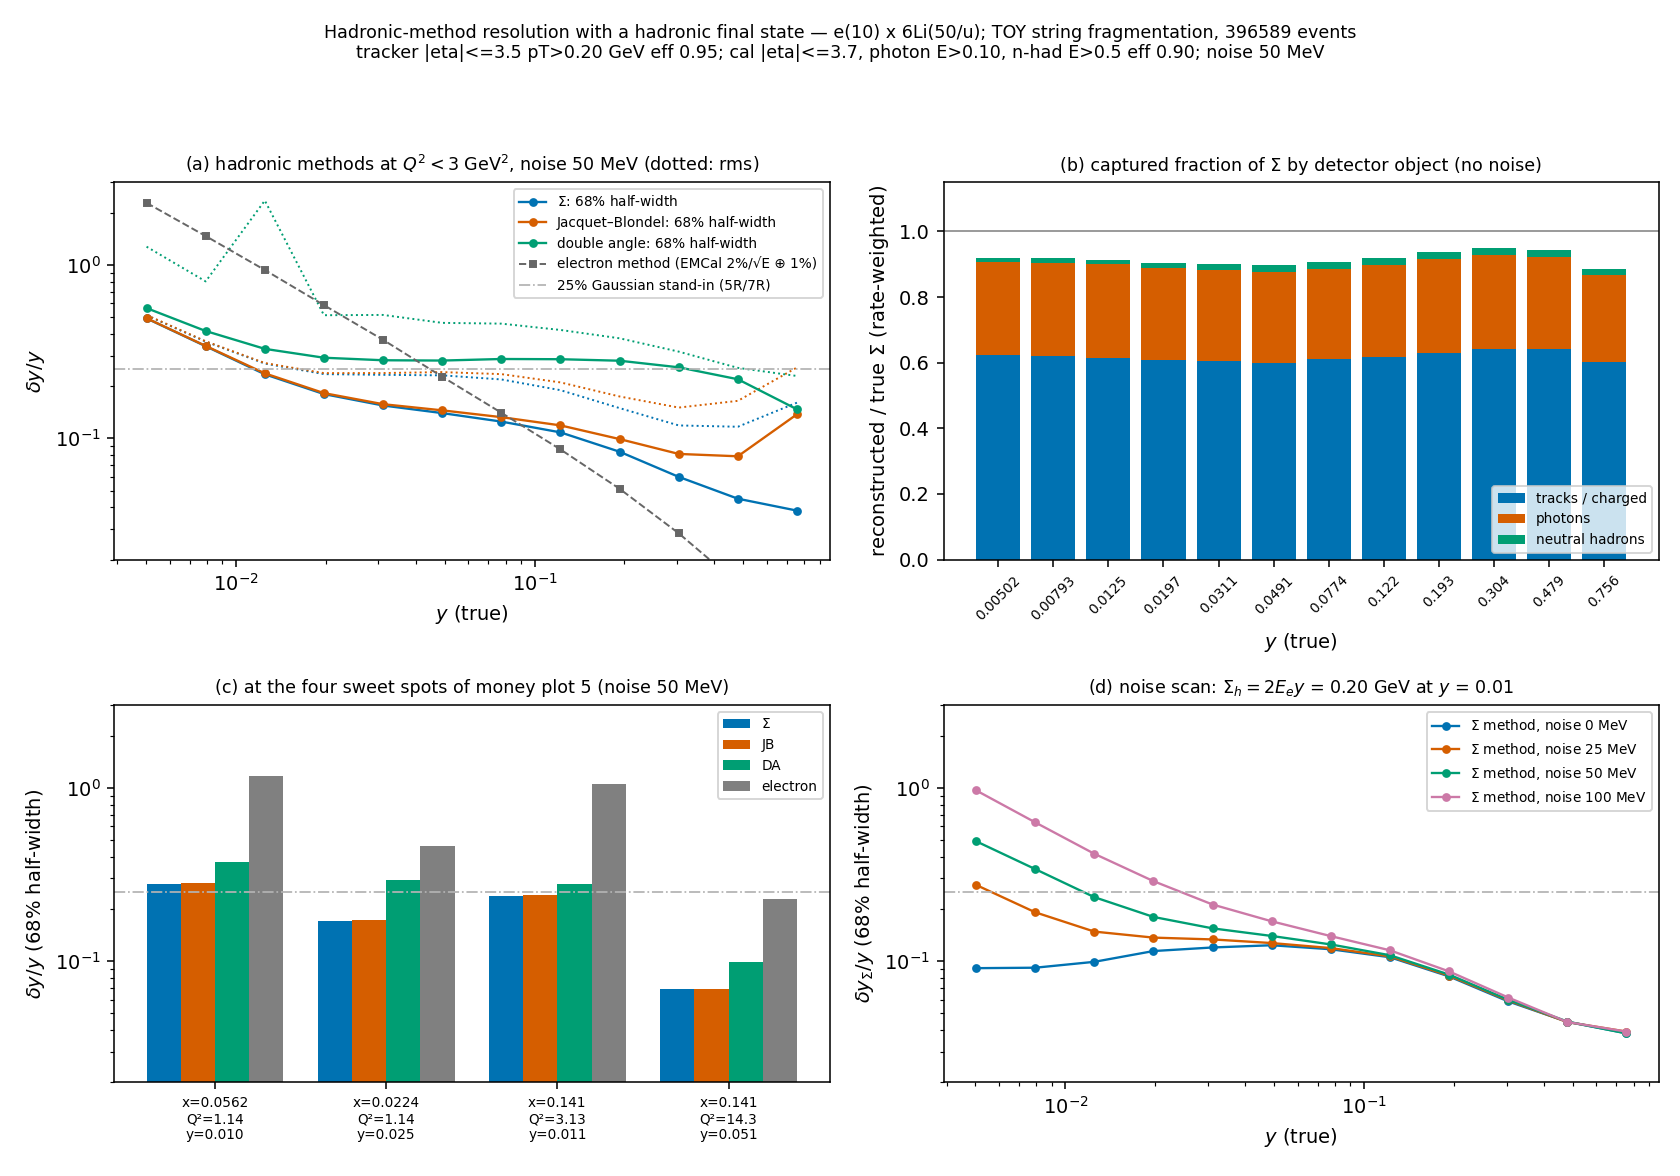
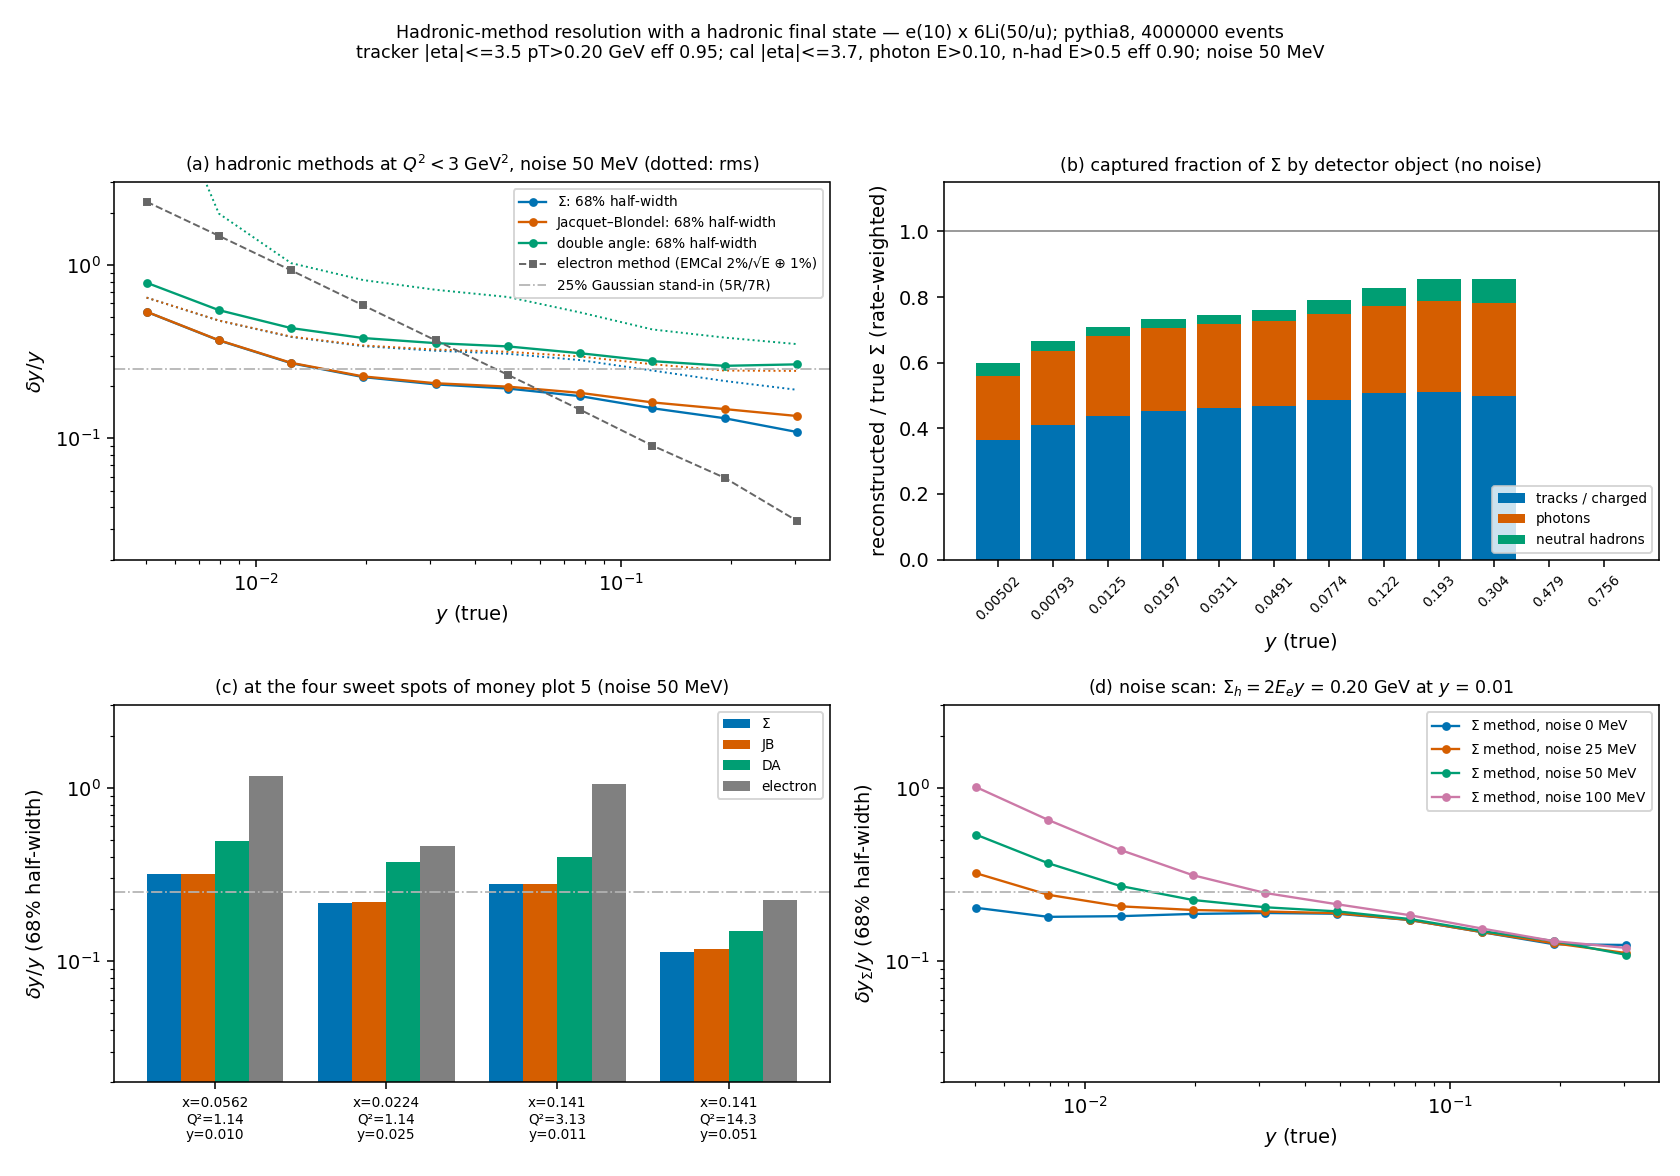
evgen: the money plots and the HFS figure on the PYTHIA sample
Figures 5R, 7R, 6R, the reco-chain schematics and the hadronic-resolution
figure regenerated with the PYTHIA 8 final state and the current
response.  The default y-source stays the 25% Gaussian stand-in, so the
published 5R/7R figures are bit-for-bit what they were; what moves is the
HFS pair and Figure 3, which was drawn on the toy.

Measured with PYTHIA at the mid configuration, 50 MeV of calorimeter
noise, at the four money-plot-5 sweet spots: Sigma-method dy/y =
0.32 / 0.22 / 0.28 / 0.11 against the toy's 0.28 / 0.17 / 0.24 / 0.07 --
the toy was optimistic by 0.04-0.05 absolute at every spot, because it
put 0.60 of Sigma in tracks and 0.03 in neutral hadrons where PYTHIA puts
0.51 and 0.11, and neutral hadrons are the HCal's problem.  The
resolution degrades monotonically with beam energy (0.21 / 0.12 / 0.17 /
0.10 at LOW, 0.74 / 0.34 / 0.69 / 0.18 at TOP), which settles the energy
strategy for the x ~ 0.1 bins on the low-energy configuration -- the open
item the reconstruction note lists.

5R on the PYTHIA final state: purity 0.40 / 0.53 / 0.44 / 0.73 against
0.65 / 0.64 / 0.66 / 0.68 with the stand-in, dilution D = 0.79 / 0.84 /
0.86 / 0.96, and the SAME errors (1.2 / 1.0 / 1.8 / 2.9 x 1e-4).  The
loss is in purity and dilution, not in statistics, so the response is a
larger correction than the stand-in implied -- which is the argument for
fitting the bin-centering factor rather than assuming it.

diff --git a/evgen/README.md b/evgen/README.md
@@ -1,5 +1,9 @@
 # polligen — doubly polarized e+⁶,⁷Li event generation
 
+*Reproducing these results?  [../docs/reproduction_manual.md](../docs/reproduction_manual.md)
+§4 has every command with its runtime and expected output, and §5.1 the
+PYTHIA 8 sample they consume.*
+
 Event-level Monte Carlo for the *doubly polarized* eA process (plans/05):
 polarized electrons on vector/tensor-polarized ⁶,⁷Li, spin-labeled events,
 run-plan bookkeeping. Step 5.A (physics kernel + inclusive sampler) and
@@ -11,7 +15,7 @@ next. Imports `../fastsim/polli_fastsim` — nothing there is duplicated.
 
 ```bash
 cd evgen
-python3 -m pytest tests/ -q            # 143 tests (grid tests auto-skip)
+python3 -m pytest tests/ -q            # 183 tests
 python3 scripts/closure_fom.py --ion 6Li --events 200000 --trials 200
 python3 scripts/closure_fom.py --ion 7Li --events 200000 --trials 200
 python3 scripts/money_tagged_azz.py --events 400000       # money plot 4
@@ -173,19 +177,37 @@ double-angle / mixed methods, `HadronResponse` (tracker |η| ≤ 3.5, p_T > 0.2 
 Yellow-Report resolutions, 50 MeV noise), `ToyHFS` (string-fragmentation
 stand-in, exact four-momentum closure, π⁰ → γγ) and `HFSLibrary`/`HFSResponse`
 ((x, Q²) library transferring a generator's response onto the pseudo-events).
-The production sample is PYTHIA 8 (`tools/pythia8/gen_dis_hfs.py`, runs in
-eic-shell); locally the toy is used and labelled.
+The production sample is **PYTHIA 8, and it now exists**: 12 M events over the
+three beam configurations (`tools/pythia8/gen_dis_hfs.py` builds natively —
+no container — and `evgen/samples/README.md` is the manifest).  Without a
+sample both scripts fall back to the toy and label it.
 
 ```bash
-python3 scripts/hfs_resolution.py --outdir .                 # Figure 3: resolution vs y, captured Σ, sweet spots, noise scan
-python3 scripts/money_cos2phi_reco.py --y-source hfs --outdir .   # 5R/7R with the HFS-based y (…_hfs.png)
-python3 scripts/hfs_resolution.py --sample samples/pythia8_e10_p50_dis.npz samples/pythia8_e10_n50_dis.npz
+python3 scripts/hfs_resolution.py --config 1     --sample samples/pythia8_e10_p50_dis.npz samples/pythia8_e10_n50_dis.npz --outdir .
+python3 scripts/money_cos2phi_reco.py --y-source hfs --hfs-sample <the same pair> --outdir .
 ```
 
-Toy result (illustrative): captured Σ fraction 0.90; Σ-method δy/y at the four
-sweet spots 0.28 / 0.17 / 0.24 / 0.07 with 50 MeV noise (9–12% without noise) —
-the 25% stand-in is the noise floor acting on Σ_h ≈ 0.2 GeV; 5R rerun with the
-HFS-based y reproduces the Table 2 errors (purities 0.60 / 0.68 / 0.68 / 0.86).
+**Measured with PYTHIA (2026-08-26), Σ method, 50 MeV calorimeter noise, at the
+four money-plot-5 sweet spots:**
+
+| configuration | x = 0.056, Q² = 1.14 | 0.022, 1.14 | 0.141, 3.13 | 0.141, 14.3 |
+|---|---|---|---|---|
+| low, 5 × 20.5 | 0.21 | 0.12 | 0.17 | 0.10 |
+| **mid, 10 × 50** | **0.32** | **0.22** | **0.28** | **0.11** |
+| top, 18 × 137.5 | 0.74 | 0.34 | 0.69 | 0.18 |
+
+Three things the toy could not say.  (i) The 25% stand-in is right in
+magnitude at the mid configuration but the toy was **optimistic by 0.04–0.05
+absolute at every spot** (it gave 0.28 / 0.17 / 0.24 / 0.07).  (ii) The
+resolution degrades monotonically with beam energy, because the sweet spots
+move to lower y as s grows — at the top configuration the hadronic method is
+0.34–0.74 and the electron method 0.2–5.4, so **the low-energy configuration
+is where the x ≈ 0.05–0.14 bins are measurable**, which is the open item the
+reconstruction note lists.  (iii) The noise floor is the whole story below
+y ≈ 0.02: in the lowest y bin (y = 0.005) the Σ resolution runs 0.20 → 0.32 →
+0.54 → 1.01 for 0 → 25 → 50 → 100 MeV, and at y = 0.0125 it runs 0.18 → 0.21 →
+0.27 → 0.44, so plans/04 #21 (the ePIC noise and threshold floor at
+Σ_h ≈ 0.2–0.5 GeV) sets it, exactly as the note says.
 
 ## Step-5.A validation gates (plans/05 §5.4) — all passing
 
